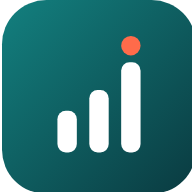
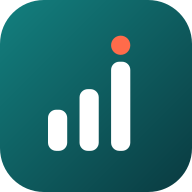
App en iPhone: sin mancha arriba, ícono sin borde negro, pantalla completa y sin zoom

diff --git a/src/index.css b/src/index.css
@@ -157,6 +157,29 @@
   }
 }
 
+/* App instalada en el iPhone: 100dvh no cuenta la zona de la hora y la
+   batería, y abajo quedaba una franja vacía de ese mismo alto. */
+@media (display-mode: standalone) {
+  :root {
+    --alto-pantalla: calc(100dvh + env(safe-area-inset-top));
+  }
+
+  /* El iPhone tiñe la zona de la hora con el fondo de la página; con el fondo
+     claro se veía una mancha blanca difuminada sobre la barra superior.
+     Cada pantalla (panel, login, landing) pone su propio fondo encima.
+     :root delante para ganarle a la regla body de más abajo. */
+  :root,
+  :root body {
+    background: var(--sidebar-fondo);
+  }
+}
+
+/* Sin zoom con dos dedos ni con doble toque (se sigue pudiendo desplazar) */
+html,
+html * {
+  touch-action: pan-x pan-y;
+}
+
 /* --escala multiplica el tamaño de toda la interfaz */
 html {
   font-size: calc(100% * var(--escala));

diff --git a/index.html b/index.html
@@ -3,9 +3,10 @@
   <head>
     <meta charset="UTF-8" />
     <link rel="icon" type="image/svg+xml" href="/favicon.svg" />
-    <link rel="apple-touch-icon" href="/apple-touch-icon.png" />
+    <link rel="apple-touch-icon" href="/apple-touch-icon.png?v=2" />
     <meta name="theme-color" content="#0A3A40" />
-    <meta name="viewport" content="width=device-width, initial-scale=1.0, viewport-fit=cover" />
+    <!-- Sin zoom con los dedos: la app ya se adapta a la pantalla -->
+    <meta name="viewport" content="width=device-width, initial-scale=1, minimum-scale=1, maximum-scale=1, user-scalable=no, viewport-fit=cover" />
     <!-- App instalada en iPhone: barra de estado del color de la app -->
     <meta name="apple-mobile-web-app-capable" content="yes" />
     <meta name="apple-mobile-web-app-status-bar-style" content="black-translucent" />

diff --git a/src/utils/sinZoom.js b/src/utils/sinZoom.js
@@ -1,0 +1,12 @@
+// Bloquea el zoom con dos dedos en el iPhone. Safari ignora user-scalable=no
+// del viewport, así que hay que cancelar el gesto a mano.
+export function bloquearZoom() {
+    const cancelar = (evento) => evento.preventDefault();
+    ['gesturestart', 'gesturechange', 'gestureend'].forEach((tipo) => {
+        document.addEventListener(tipo, cancelar, { passive: false });
+    });
+    // Respaldo: un toque con dos dedos que cambia la escala
+    document.addEventListener('touchmove', (evento) => {
+        if (evento.scale !== undefined && evento.scale !== 1) evento.preventDefault();
+    }, { passive: false });
+}

diff --git a/src/main.jsx b/src/main.jsx
@@ -12,11 +12,13 @@ import ConfirmarProvider from './Context/ConfirmarProvider';
 import PreferenciasProvider from './Context/PreferenciasProvider';
 import LimiteErrores from './components/LimiteErrores';
 import { iniciarMonitoreo } from './utils/monitoreo';
+import { bloquearZoom } from './utils/sinZoom';
 
 // Aplica tema y color guardados antes del primer render para evitar parpadeos.
 iniciarApariencia();
 document.documentElement.lang = obtenerIdioma();
 iniciarMonitoreo();
+bloquearZoom();
 
 createRoot(document.getElementById('root')).render(
     <StrictMode>
